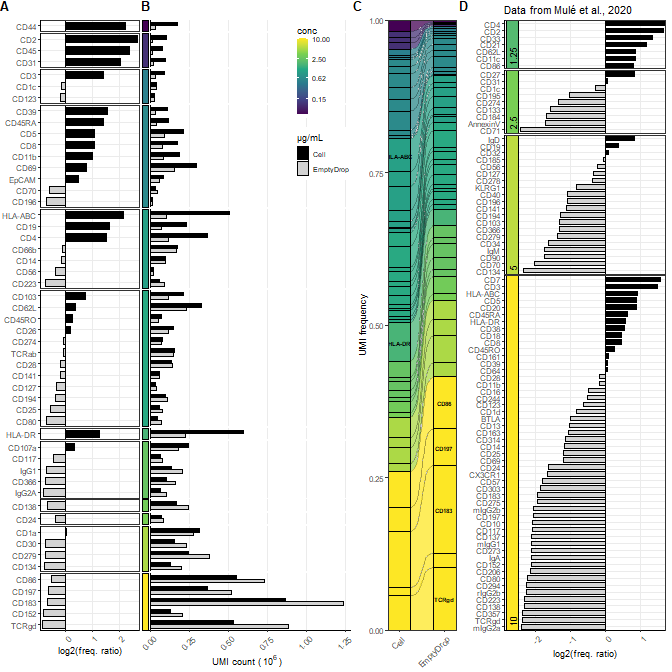
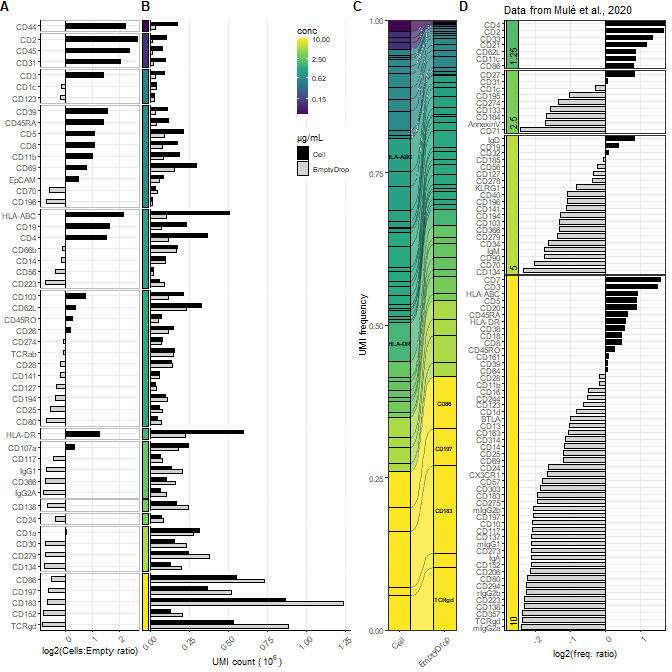
ADT in cells vs empty updated.

diff --git a/ADT-reads-in-cells-vs-empty-drops.md b/ADT-reads-in-cells-vs-empty-drops.md
@@ -155,19 +155,20 @@ data.ratio <- data.frame(ratio=markerUMI.inCell.freq/markerUMI.inDrop.freq) %>% 
 data.ratio$Marker <- factor(data.ratio$Marker, levels=data.ratio$Marker)
 
 p.ratio <- ggplot(data.ratio, aes(x=Marker, y=log2(ratio))) + 
-  geom_bar(stat="identity", aes(fill=log2(ratio)>0), color="black", width=0.65) +
+  geom_bar(stat="identity", aes(fill=log2(ratio)>0), color="black", width=0.4) +
   geom_hline(yintercept=0) + 
   scale_fill_manual(values=c(`FALSE`="lightgrey",`TRUE`="black")) + 
   scale_x_discrete(expand=c(0, 0.5)) + 
   scale_y_continuous(expand=c(0,0.05,0,0.05)) + 
   coord_flip() + 
   facet_grid(rows="conc", scales="free_y", space="free_y") + 
-  labs(y="log2(freq. ratio)", fill="µg/mL") + 
+  labs(y="log2(Cells:Empty ratio)", fill="µg/mL") + 
   theme(panel.spacing=unit(0.5,"mm"),
         axis.line=element_line(), 
         axis.title.y=element_blank(), 
         strip.placement="outside", 
         strip.text=element_blank(), 
+        panel.border=element_rect(color="grey"),
         legend.position="none", 
         legend.justification=c(0,1),
         legend.direction="horizontal",
@@ -277,7 +278,7 @@ p.final <- cowplot::plot_grid(p.ratio + theme(plot.margin=unit(c(0.03,0,0,0),"np
                               p.barplot + theme(plot.margin=unit(c(0,0,0,-0.005),"npc"), axis.ticks.y=element_blank()), 
                               p.alluvial, 
                               nrow=1, 
-                              rel_widths=c(2,4,1.5), 
+                              rel_widths=c(1.7,4.3,1.5), 
                               align="h", 
                               axis="tb", 
                               labels=c("A", "B", "C"), 
